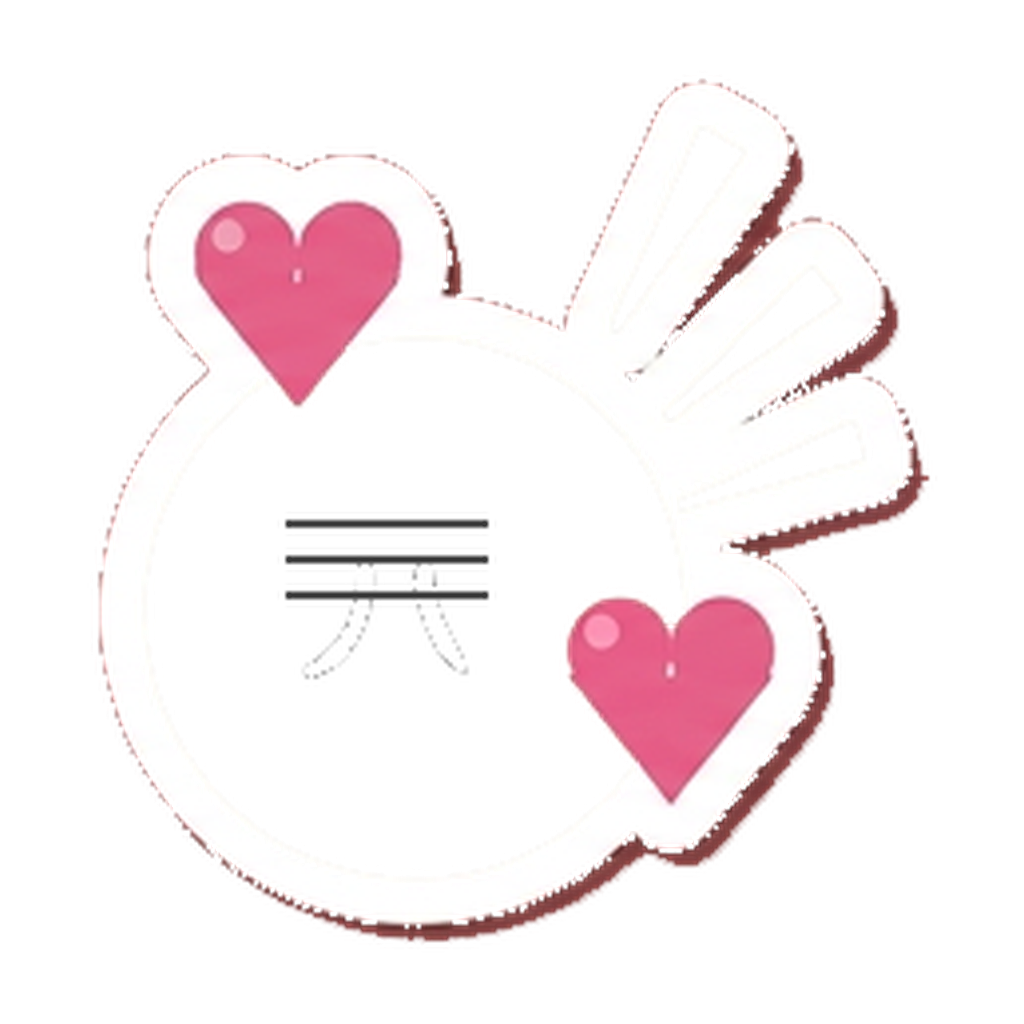
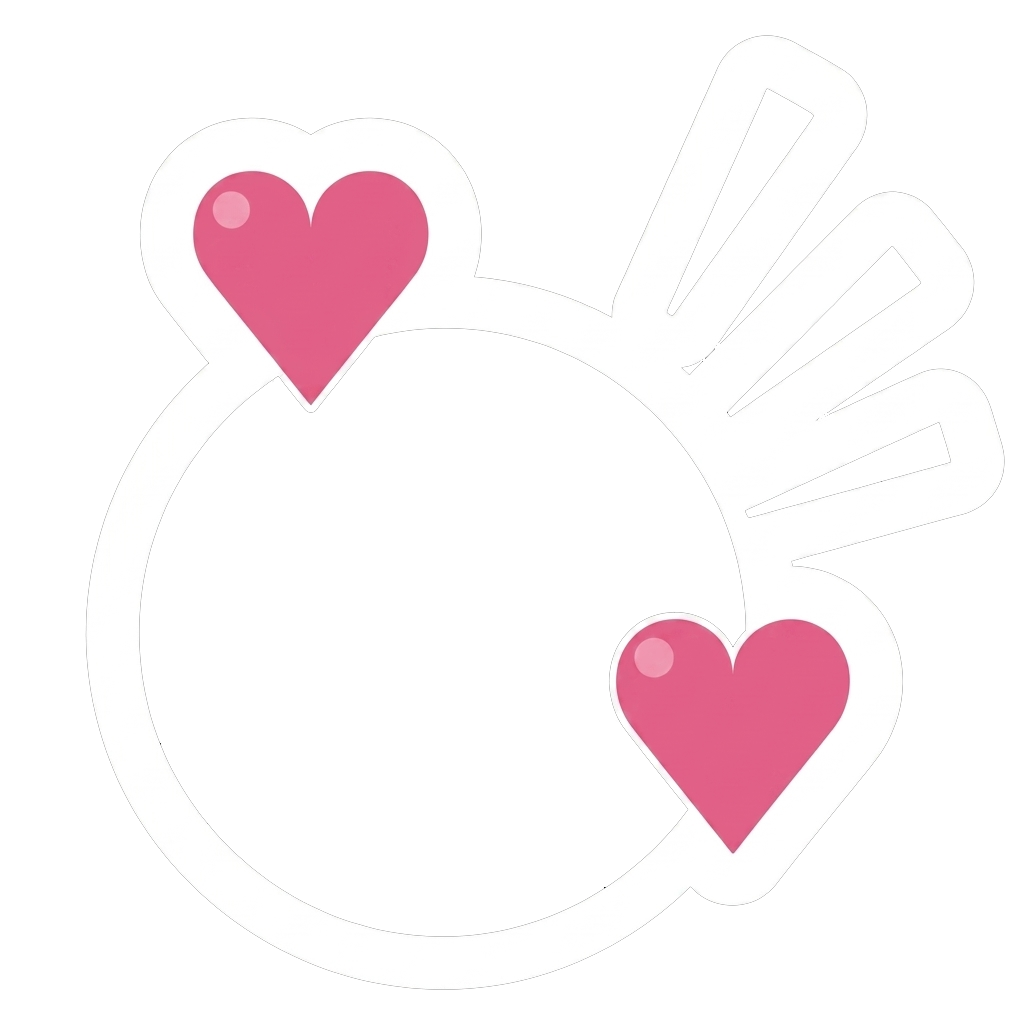
Catnip sticker rebuild + StickerButton high-DPI fix
Extracted catnip icon from Thingaling.png source sticker.
StickerButton was painting a 1024px pixmap directly into a 38px
integer rect — pre-scale to 2x with devicePixelRatio so Qt renders
at native resolution, matching PrettyButton crispness.

diff --git a/icons/extract_catnip.py b/icons/extract_catnip.py
@@ -1,0 +1,30 @@
+#!/usr/bin/env python3
+"""Extract the catnip sticker from Thingaling.png.
+
+The source PNG is already 1024x1024 with transparent background —
+use it directly without resizing to preserve full quality.
+
+Produces:
+  - catnip_sticker_clean_1024.png  (clean — for compositing / feed button)
+  - catnip_sticker_1024.png        (alias for legacy compat)
+  - catnip_feed.ico                (multi-resolution ICO)
+"""
+from PIL import Image
+
+out = Image.open("Images/Stickers/Thingaling.png").convert("RGBA")
+print(f"Source: {out.size[0]}x{out.size[1]}")
+
+# ── Save variants ────────────────────────────────────────────────────
+out.save("icons/catnip_sticker_clean_1024.png")
+out.save("icons/catnip_sticker_1024.png")
+
+# ── Verify on dark background ────────────────────────────────────────
+dark_bg = Image.new("RGBA", (1024, 1024), (45, 52, 54, 255))
+dark_bg.paste(out, (0, 0), out)
+dark_bg.save("icons/_verify_catnip_dark.png")
+
+# ── Multi-resolution ICO ─────────────────────────────────────────────
+out.save("icons/catnip_feed.ico", format="ICO",
+         sizes=[(s, s) for s in [16, 24, 32, 48, 64, 128, 256]])
+
+print("Done — catnip_sticker_clean_1024.png + 1024.png + feed.ico")

diff --git a/widgets/StickerButton.py b/widgets/StickerButton.py
@@ -31,8 +31,15 @@ class StickerButton(QPushButton):
 
     def __init__(self, pixmap: QPixmap, size: int, parent=None):
         super().__init__(parent)
-        self._pixmap = pixmap
         self._size = size
+        # Pre-scale to 2× button size for crisp rendering on high-DPI displays.
+        # A 1024px source scaled directly to 38px in drawPixmap loses detail;
+        # LANCZOS-quality downscale to 2× then letting Qt halve it with
+        # SmoothPixmapTransform gives much sharper results.
+        dpr = 2.0
+        px_size = int(size * dpr)
+        self._pixmap = pixmap.scaled(px_size, px_size, Qt.KeepAspectRatio, Qt.SmoothTransformation)
+        self._pixmap.setDevicePixelRatio(dpr)
         self.setFixedSize(size, size)
         self.setFlat(True)
         self.setFocusPolicy(Qt.NoFocus)
@@ -48,6 +55,7 @@ class StickerButton(QPushButton):
         sz = self._pixmap.size()
         # Start with the original pixmap (preserves alpha shape)
         shadow = QPixmap(sz)
+        shadow.setDevicePixelRatio(self._pixmap.devicePixelRatio())
         shadow.fill(QColor(0, 0, 0, 0))
 
         p = QPainter(shadow)
@@ -97,8 +105,7 @@ class StickerButton(QPushButton):
 
         if pressed:
             # Pressed — icon shifts outward into where the shadow was, no shadow
-            draw_rect = QRectF(shadow_x, shadow_y, sz, sz)
-            painter.drawPixmap(draw_rect.toRect(), self._pixmap)
+            painter.drawPixmap(QPointF(shadow_x, shadow_y), self._pixmap)
         else:
             # Normal — shadow as a dark silhouette on the outside edge.
             # Build the shadow pixmap once and cache it — uses the sticker's
@@ -107,12 +114,10 @@ class StickerButton(QPushButton):
             if not hasattr(self, '_shadow_pix') or self._shadow_pix is None:
                 self._shadow_pix = self._build_shadow_pixmap()
 
-            shadow_rect = QRectF(shadow_x, shadow_y, sz, sz)
             painter.setOpacity(SHADOW_OPACITY)
-            painter.drawPixmap(shadow_rect.toRect(), self._shadow_pix)
+            painter.drawPixmap(QPointF(shadow_x, shadow_y), self._shadow_pix)
 
             painter.setOpacity(1.0)
-            draw_rect = QRectF(0, 0, sz, sz)
-            painter.drawPixmap(draw_rect.toRect(), self._pixmap)
+            painter.drawPixmap(QPointF(0, 0), self._pixmap)
 
         painter.end()